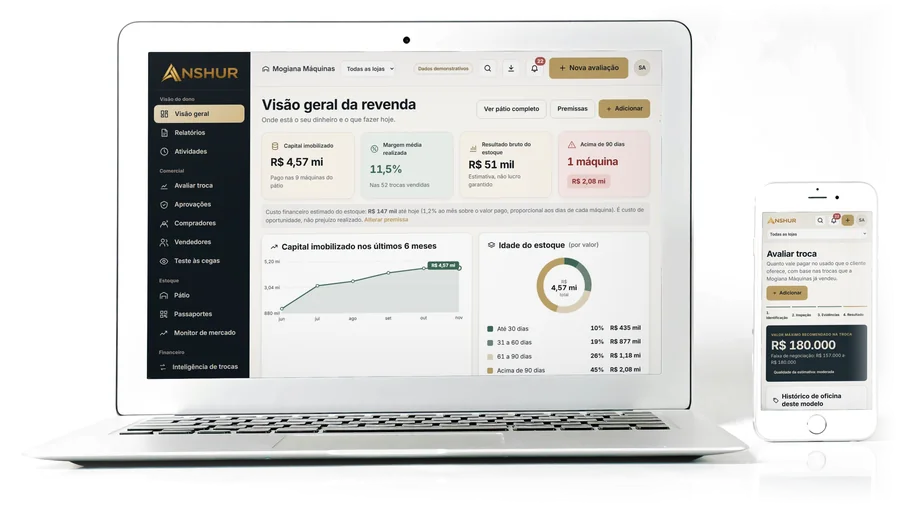
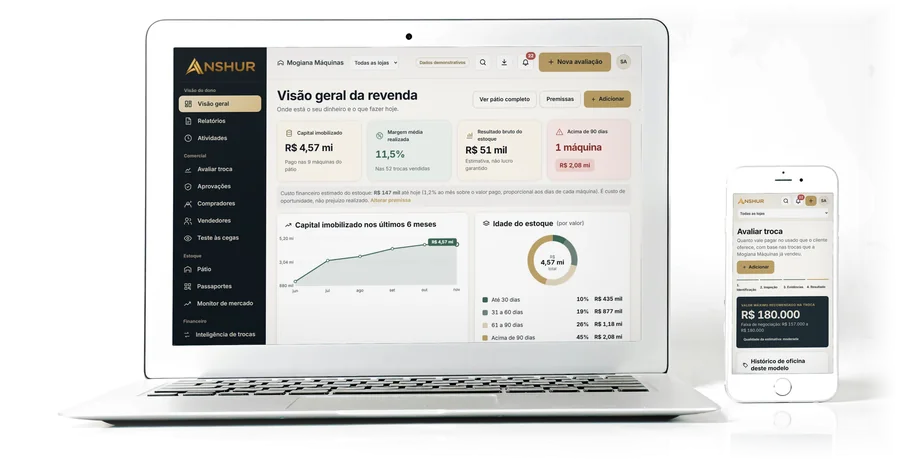
Anshur: foto real no topo

diff --git a/anshur.html b/anshur.html
@@ -30,7 +30,7 @@
 <link rel="stylesheet" href="css/site.css?v=71">
 <link rel="stylesheet" href="css/luxo.css?v=22">
 <link rel="stylesheet" href="css/creme.css?v=2"><link rel="stylesheet" href="css/areia.css?v=4">
-<link rel="stylesheet" href="css/tinta.css?v=13">
+<link rel="stylesheet" href="css/tinta.css?v=14">
 <link rel="stylesheet" href="css/pg-anshur.css?v=5">
 <script>document.documentElement.classList.add('js')</script>
 <script src="js/contato.js?v=9" defer></script>
@@ -87,7 +87,7 @@
       </div>
       <div class="an-topo-telas">
         <figure class="an-topo-foto">
-          <img src="img/anshur/topo-notebook-celular.webp?v=1" srcset="img/anshur/topo-notebook-celular-900.webp?v=1 900w, img/anshur/topo-notebook-celular.webp?v=1 1600w" sizes="(max-width: 900px) calc(100vw - 32px), 46vw" width="1600" height="884" alt="Notebook e celular sobre uma mesa clara mostrando telas reais da demonstração do Anshur: no notebook, a visão geral da revenda com capital imobilizado, margem média realizada e máquinas há mais de 90 dias no pátio; no celular, a avaliação da troca com valor máximo recomendado de R$ 180.000" fetchpriority="high" decoding="async">
+          <img src="img/anshur/topo-notebook-celular.webp?v=1" srcset="img/anshur/topo-notebook-celular-900.webp?v=1 900w, img/anshur/topo-notebook-celular.webp?v=1 1600w" sizes="(max-width: 900px) calc(100vw - 16px), 52vw" width="1600" height="826" alt="Notebook e celular sobre uma mesa clara mostrando telas reais da demonstração do Anshur: no notebook, a visão geral da revenda com capital imobilizado, margem média realizada e máquinas há mais de 90 dias no pátio; no celular, a avaliação da troca com valor máximo recomendado de R$ 180.000" fetchpriority="high" decoding="async">
           <figcaption class="an-foto-credito">Foto: <a href="https://unsplash.com/photos/OOxShWtsFBs" target="_blank" rel="noopener">2H Media / Unsplash</a> · telas reais da demonstração</figcaption>
         </figure>
       </div>

diff --git a/css/pg-anshur.css b/css/pg-anshur.css
@@ -218,8 +218,9 @@ main.an::before, main.an > section::before, main.an > section::after { content: 
 .an-faixa-garantia div { align-content: start; }
 
 /* 09/11: topo com foto real (notebook e celular) e as telas da demonstração encaixadas em perspectiva */
-.an-topo-foto { margin: 0 -4% 0 -2%; }
-.an-topo-foto img { display: block; width: 100%; height: auto; }
-.an-foto-credito { margin: 2px 0 0; text-align: right; font-size: 11.5px; line-height: 1.35; color: #55626a; padding-right: 4%; }
+.an-topo { overflow-x: clip; }
+.an .an-topo-foto { margin: 0 -10% 0 -6%; }
+.an-topo-foto img { display: block; width: 100%; height: auto; mix-blend-mode: multiply; }
+.an-foto-credito { margin: 2px 0 0; text-align: right; font-size: 11.5px; line-height: 1.35; color: #55626a; padding-right: 9%; }
 .an-foto-credito a { color: inherit; }
-@media (max-width: 900px) { .an-topo-foto { margin: 8px -8px 0; } .an-foto-credito { padding-right: 8px; } }
+@media (max-width: 900px) { .an .an-topo-foto { margin: 8px -8px 0; } .an-foto-credito { padding-right: 8px; } }

diff --git a/css/tinta.css b/css/tinta.css
@@ -384,3 +384,4 @@ main :is(p, li, dd, td, figcaption, small) a:not(.btn):not([class]):not(nav a):n
 @media (min-width: 901px) { .nav-links a { white-space: nowrap; } }
 @media (min-width: 901px) and (max-width: 1360px) { .nav-links { gap: 14px; font-size: 13px; } .nav-links a { letter-spacing: .03em; } }
 @media (min-width: 901px) and (max-width: 1180px) { .nav-links a[href="como-funciona.html"] { display: none; } .nav-links .btn { padding-inline: 14px; } }
+.nav .brand { white-space: nowrap; flex: none; }

diff --git a/seguranca.html b/seguranca.html
@@ -28,7 +28,7 @@
 <link rel="stylesheet" href="css/site.css?v=71">
 <link rel="stylesheet" href="css/luxo.css?v=22">
 <link rel="stylesheet" href="css/creme.css?v=2"><link rel="stylesheet" href="css/areia.css?v=4">
-<link rel="stylesheet" href="css/tinta.css?v=13">
+<link rel="stylesheet" href="css/tinta.css?v=14">
 <link rel="stylesheet" href="css/pg-seguranca.css?v=6">
 <script>document.documentElement.classList.add('js')</script>
 <script src="js/contato.js?v=9" defer></script>

diff --git a/servicos.html b/servicos.html
@@ -33,7 +33,7 @@
 <link rel="stylesheet" href="css/inicio.css?v=36">
 <link rel="stylesheet" href="css/luxo.css?v=22">
 <link rel="stylesheet" href="css/creme.css?v=2"><link rel="stylesheet" href="css/areia.css?v=4">
-<link rel="stylesheet" href="css/tinta.css?v=13">
+<link rel="stylesheet" href="css/tinta.css?v=14">
 <script>document.documentElement.classList.add('js')</script>
 <script src="js/contato.js?v=9" defer></script>
 <script src="js/leads-config.js?v=6" defer></script>

diff --git a/index.html b/index.html
@@ -33,7 +33,7 @@
 <link rel="stylesheet" href="css/site.css?v=71">
 <link rel="stylesheet" href="css/luxo.css?v=22">
 <link rel="stylesheet" href="css/creme.css?v=2"><link rel="stylesheet" href="css/areia.css?v=4">
-<link rel="stylesheet" href="css/tinta.css?v=13">
+<link rel="stylesheet" href="css/tinta.css?v=14">
 <link rel="stylesheet" href="css/inicio.css?v=36">
 <link rel="stylesheet" href="css/home.css?v=22">
 <script>document.documentElement.classList.add('js')</script>

diff --git a/arquitetura.html b/arquitetura.html
@@ -31,7 +31,7 @@
 <link rel="stylesheet" href="css/site.css?v=71">
 <link rel="stylesheet" href="css/luxo.css?v=22">
 <link rel="stylesheet" href="css/creme.css?v=2"><link rel="stylesheet" href="css/areia.css?v=4">
-<link rel="stylesheet" href="css/tinta.css?v=13">
+<link rel="stylesheet" href="css/tinta.css?v=14">
 <link rel="stylesheet" href="css/inicio.css?v=36">
 <link rel="stylesheet" href="css/pg-demos.css?v=4">
 <link rel="stylesheet" href="css/pg-arquitetura.css?v=5">

diff --git a/exemplos.html b/exemplos.html
@@ -28,7 +28,7 @@
 <link rel="stylesheet" href="css/site.css?v=71">
 <link rel="stylesheet" href="css/luxo.css?v=22">
 <link rel="stylesheet" href="css/creme.css?v=2"><link rel="stylesheet" href="css/areia.css?v=4">
-<link rel="stylesheet" href="css/tinta.css?v=13">
+<link rel="stylesheet" href="css/tinta.css?v=14">
 <link rel="stylesheet" href="css/pg-demos.css?v=4">
 <script src="js/luxo.js?v=5" defer></script>
 <script>document.documentElement.classList.add('js')</script>

diff --git a/annona.html b/annona.html
@@ -29,7 +29,7 @@
 <link rel="stylesheet" href="css/site.css?v=71">
 <link rel="stylesheet" href="css/luxo.css?v=22">
 <link rel="stylesheet" href="css/creme.css?v=2"><link rel="stylesheet" href="css/areia.css?v=4">
-<link rel="stylesheet" href="css/tinta.css?v=13">
+<link rel="stylesheet" href="css/tinta.css?v=14">
 <link rel="stylesheet" href="css/versoes.css?v=8">
 <script src="js/luxo.js?v=5" defer></script>
 <script>document.documentElement.classList.add('js')</script>

diff --git a/como-funciona.html b/como-funciona.html
@@ -33,7 +33,7 @@
 <script src="js/luxo.js?v=5" defer></script>
 <link rel="stylesheet" href="css/luxo.css?v=22">
 <link rel="stylesheet" href="css/creme.css?v=2"><link rel="stylesheet" href="css/areia.css?v=4">
-<link rel="stylesheet" href="css/tinta.css?v=13">
+<link rel="stylesheet" href="css/tinta.css?v=14">
 <link rel="stylesheet" href="css/pg-demos.css?v=4">
 <script>document.documentElement.classList.add('js')</script>
 <script src="js/contato.js?v=9" defer></script>

diff --git a/peplo.html b/peplo.html
@@ -29,7 +29,7 @@
 <link rel="stylesheet" href="css/site.css?v=71">
 <link rel="stylesheet" href="css/luxo.css?v=22">
 <link rel="stylesheet" href="css/creme.css?v=2"><link rel="stylesheet" href="css/areia.css?v=4">
-<link rel="stylesheet" href="css/tinta.css?v=13">
+<link rel="stylesheet" href="css/tinta.css?v=14">
 <link rel="stylesheet" href="css/versoes.css?v=8">
 <script src="js/luxo.js?v=5" defer></script>
 <script>document.documentElement.classList.add('js')</script>

diff --git a/veltria-agenda.html b/veltria-agenda.html
@@ -29,7 +29,7 @@
 <link rel="stylesheet" href="css/site.css?v=71">
 <link rel="stylesheet" href="css/luxo.css?v=22">
 <link rel="stylesheet" href="css/creme.css?v=2"><link rel="stylesheet" href="css/areia.css?v=4">
-<link rel="stylesheet" href="css/tinta.css?v=13">
+<link rel="stylesheet" href="css/tinta.css?v=14">
 <link rel="stylesheet" href="css/versoes.css?v=8">
 <script src="js/luxo.js?v=5" defer></script>
 <script>document.documentElement.classList.add('js')</script>
